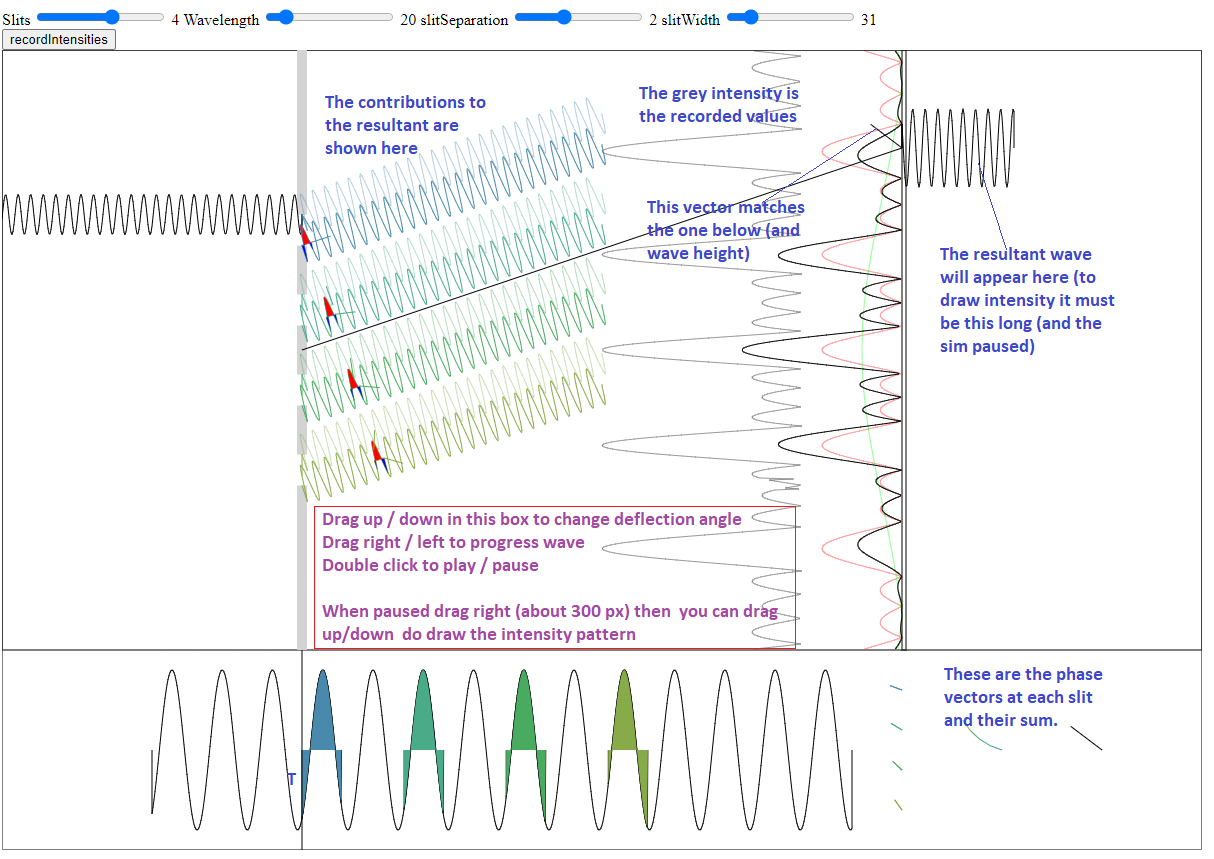
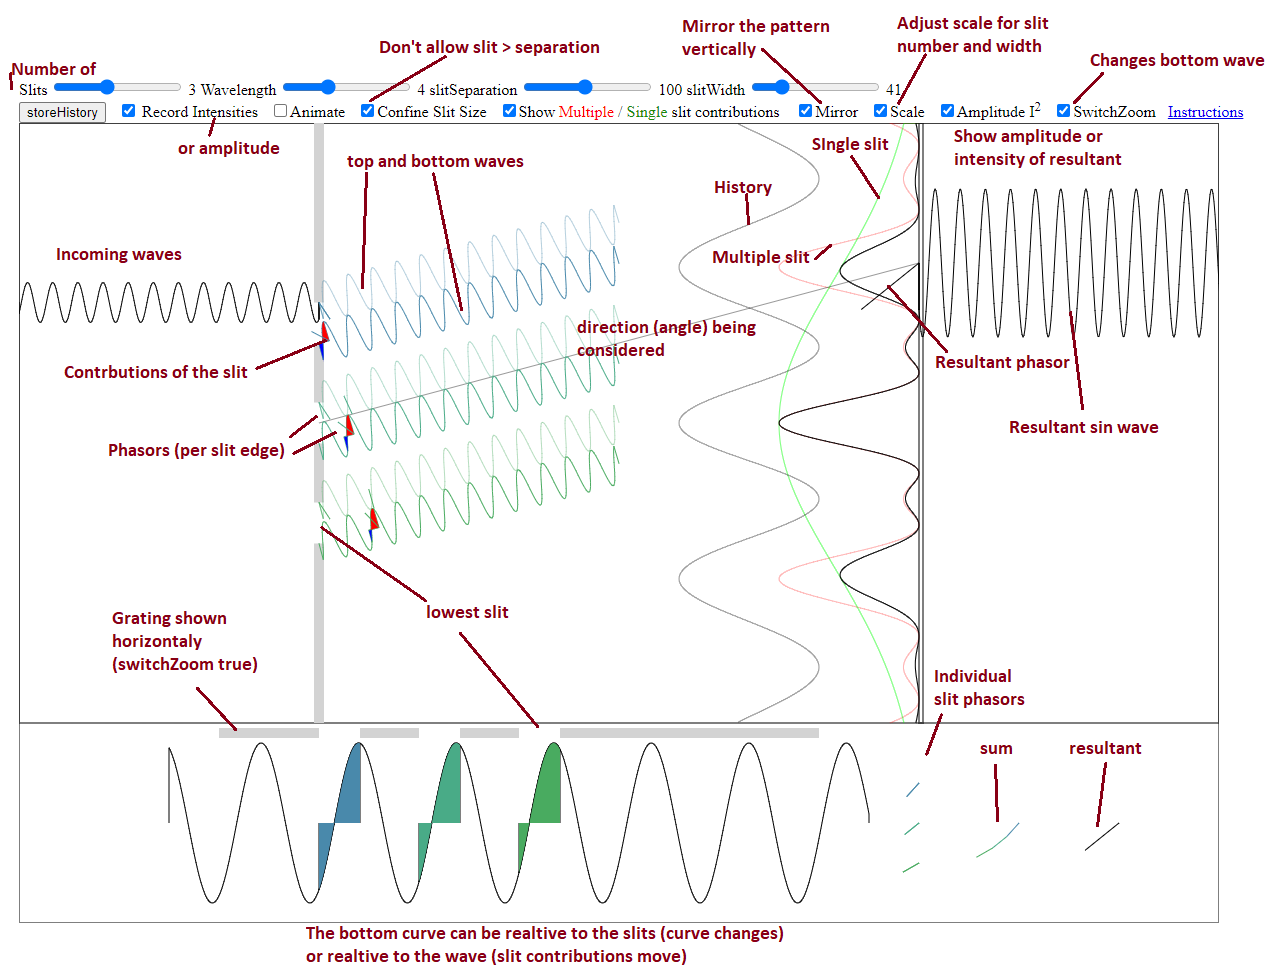
First Feature complete Diffraction sim

diff --git a/src/View/drawView.js b/src/View/drawView.js
@@ -11,7 +11,7 @@ const colours = (i, opacity = 1) => {
 
 // Draw foreground, the rays and sin waves and phasors
 
-function drawForground (c, slit, ray, wave, pos, viewScale, amp) {
+function drawForground (c, slit, ray, wave, pos, viewScale, { amp, scale, switchZoom }) {
   const geo = ray.geo
   const edges = ray.grating.edges.map(a => a) // .reverse().map(([a, b]) => [a + 2 * ray.grating.firstSlit, b + 2 * ray.grating.firstSlit])
 
@@ -72,13 +72,23 @@ function drawForground (c, slit, ray, wave, pos, viewScale, amp) {
   // bottom wave with areas
   // const fills = sd.centres.map((yy, i, a) => [yy * geo.sin, 3, colours(i)])
 
-  const fills = slit.edges.map((c, i, a) => {
-    const [yyy, yy] = c.map(cc => cc * geo.sin)
-    return [Math.min(-yyy, -yy), Math.max(Math.abs(-yyy + yy), 1), colours(i)]
-  })
-  // newSin(c, wave, 100, pos.topViewXY.y + 300, [0, 600], pos.grating.x, 1, 0, 'black', fills)
-  cosineCurve(c, wave, 300, 700, [-150, 700], 0, 4, 0, 'black', fills)
-  drawLine(c, 300, 600, 0, 200, 'black')
+  if (switchZoom) {
+    let { length, phase, amplitude } = wave
+    length = length / (geo.sin * -4)
+    const wave2 = { length, phase, amplitude }
+    const fills = slit.edges.map((c, i, a) => {
+      const [yyy, yy] = c.map(cc => cc * -1 / 4)
+      return [Math.min(-yyy, -yy), Math.max(Math.abs(-yyy + yy), 1), colours(i)]
+    })
+    cosineCurve(c, wave2, 300, 700, [-150, 700], 0, 4, 0, 'black', fills)
+  } else {
+    const fills = slit.edges.map((c, i, a) => {
+      const [yyy, yy] = c.map(cc => cc * geo.sin)
+      return [Math.min(-yyy, -yy), Math.max(Math.abs(-yyy + yy), 1), colours(i)]
+    })
+    cosineCurve(c, wave, 300, 700, [-150, 700], 0, 4, 0, 'black', fills)
+    drawLine(c, 300, 600, 0, 200, 'black')
+  }
 
   let resultAmpitude = ray.modulatedResultant.mag * wave.amplitude
   let wavePhasor = ray.modulatedResultant.scale(wave.amplitude * viewScale.intensity)
@@ -86,6 +96,12 @@ function drawForground (c, slit, ray, wave, pos, viewScale, amp) {
   if (amp) {
     resultAmpitude = resultAmpitude * ray.modulatedResultant.mag
     wavePhasor = wavePhasor.scale(ray.modulatedResultant.mag)
+  }
+
+  if (!scale) {
+    const scaleFactor = scale ? 1 : slit.number * (slit.realWidth || 20) / 50
+    resultAmpitude = resultAmpitude * scaleFactor
+    wavePhasor = wavePhasor.scale(scaleFactor)
   }
 
   drawLine(c, ...pos.phaseDiagram.addXY(100, 0), ...ray.modulatedResultant.scale(wave.amplitude * slit.number), 'black')
@@ -97,20 +113,27 @@ function drawForground (c, slit, ray, wave, pos, viewScale, amp) {
 }
 
 // The grating is drawn by rectangles, this function takes the edges of the slit, the top and bottom and makes pairs oy y-coords
-function drawGrating (c, { edges: e, firstSlit: f, width: w }, vSize, x, dx) {
-  // Add the top and bottom of the grating
-  [0].concat(e.flat().map((v) => v + f + vSize / 2)).concat([vSize])
-    // flatten to a set of pairs for drawing
+function drawVerticalGrating (c, { edges: e, firstSlit: f, width: w }, length, xpos, thickness) {
+  // Add the top and bottom of the grating  flatten to a set of pairs for drawing
+  [0].concat(e.flat().map((v) => v + f + length / 2)).concat([length])
     .reduce((ac, cv, i, ar) => i % 2 ? ac.concat([[ar[i - 1], ar[i]]]) : ac, [])
     // draw each pair as a rectangle
-    .forEach(([y1, y2], i, a) => { c.fillRect(x - dx, y1, dx * 2, y2 - y1) })
+    .forEach(([y1, y2], i, a) => { c.fillRect(xpos - thickness, y1, thickness * 2, y2 - y1) })
+}
+
+function drawHorizontalGrating (c, { edges: e, firstSlit: f, width: w }, longStart, length, transStart, thickness, horizontal, centered) {
+  // Add the top and bottom of the grating  flatten to a set of pairs for drawing
+  const flattenedEdges = [longStart].concat(e.flat().map((v) => v + longStart + 100)).concat([length + longStart])
+    .reduce((ac, cv, i, ar) => i % 2 ? ac.concat([[ar[i - 1], ar[i]]]) : ac, [])
+    // draw each pair as a rectangle
+  flattenedEdges.forEach(([x1, x2], i, a) => { c.fillRect(x1, transStart - thickness, x2 - x1, thickness * 2) })
 }
 
 /*
 *  Draws the areas for each section, the screen and the grating
 */
 
-function drawBackground (c, intensity, pos, amplitude, slit, { scale, show, amp }, viewScale) {
+function drawBackground (c, intensity, pos, amplitude, slit, { scale, show, amp, switchZoom }, viewScale) {
   // c.clearRect(0, 0, c.canvas.width, c.canvas.height)   - for canvas based optimisation
   c.fillStyle = 'lightgrey'
   c.strokeStyle = 'black'
@@ -120,19 +143,23 @@ function drawBackground (c, intensity, pos, amplitude, slit, { scale, show, amp 
   c.strokeRect(pos.screen.x, 0, pos.screen.dx, pos.topViewXY.y)
 
   // Draws the grating
-  drawGrating(c, slit, pos.topViewXY.y, pos.grating.x, pos.grating.dx)
-
+  drawVerticalGrating(c, slit, pos.topViewXY.y, pos.grating.x, pos.grating.dx)
+  if (switchZoom) {
+    drawHorizontalGrating(c, slit, 200, 600, pos.topViewXY.y + 10, pos.grating.dx, true)
+  }
   // Draw the intensity traces
 
   const traceAmplitude = amplitude * viewScale.intensity
+  console.log(slit.width, typeof slit.width)
+  const scaleFactor = scale ? 1 : slit.number * (slit.realWidth || 20) / 50
 
   if (show) {
-    drawTrace(c, intensity[0], pos.screen.x, 0, 'rgba(255, 0, 0, 0.3)', 0, 1, -traceAmplitude, 0, amp)
-    drawTrace(c, intensity[1], pos.screen.x, 0, 'rgba(0, 255, 0, 0.5)', 0, 1, -traceAmplitude, 0, amp)
+    drawTrace(c, intensity[0], pos.screen.x, 0, 'rgba(255, 0, 0, 0.3)', 0, 1, -traceAmplitude, 0, amp, scaleFactor)
+    drawTrace(c, intensity[1], pos.screen.x, 0, 'rgba(0, 255, 0, 0.5)', 0, 1, -traceAmplitude, 0, amp, scaleFactor)
   }
-  drawTrace(c, intensity[2], pos.screen.x, 0, 'black', 0, 1, -traceAmplitude, 0, amp)
-  drawTrace(c, intensity[3], pos.screen.x, 0, 'rgba(0, 0, 0, 0.2)', 0, 1, -traceAmplitude, 0, amp)
-  drawTrace(c, intensity[4], pos.screen.x - 100, 0, undefined, 0, 1, -traceAmplitude, 0, amp)
+  drawTrace(c, intensity[2], pos.screen.x, 0, 'black', 0, 1, -traceAmplitude, 0, amp, scaleFactor)
+  drawTrace(c, intensity[3], pos.screen.x, 0, 'rgba(0, 0, 0, 0.2)', 0, 1, -traceAmplitude, 0, amp, scaleFactor)
+  drawTrace(c, intensity[4], pos.screen.x - 100, 0, undefined, 0, 1, -traceAmplitude, 0, amp, scaleFactor)
 }
 
 export { drawForground, drawBackground }

diff --git a/src/DiffractionSimulation.js b/src/DiffractionSimulation.js
@@ -6,8 +6,6 @@ import { drawForground, drawBackground } from './View/drawView.js'
 
 const canvas = document.querySelector('#screen')
 const cx = canvas.getContext('2d')
-const fx = document.querySelector('#forground').getContext('2d')
-const bx = document.querySelector('#background').getContext('2d')
 
 const sliders = {
   wave: { s: document.getElementById('wavelengthSlide'), t: document.getElementById('wavelengthText') },
@@ -19,20 +17,30 @@ const checkboxes = {
   animate: document.getElementById('anim'),
   record: document.getElementById('rec'),
   show: document.getElementById('show'),
-  // instant: document.getElementById('ins'),
   confine: document.getElementById('conf'),
   mirror: document.getElementById('mirror'),
-  amp: document.getElementById('amp')
+  amp: document.getElementById('amp'),
+  scale: document.getElementById('scale'),
+  switchZoom: document.getElementById('switchZoom')
 }
 const buttons = {
   record: document.getElementById('hist')
 }
 
 const viewScale = { intensity: 7 }
-const settings = { animate: { run: false, notPaused: true }, record: false, confineSlitSize: true, show: false, mirror: true, amp: false }
+const settings = {
+  animate: { run: true, notPaused: true },
+  record: false,
+  confineSlitSize: true,
+  show: false,
+  mirror: true,
+  amp: false,
+  scale: true,
+  switchZoom: false
+}
 const pos = { topViewXY: new Vec(1200, 600), grating: { x: 300, dx: 5 }, screen: { x: 900, dx: 4 }, phaseDiagram: new Vec(1000, 700) }
 
-let slit = new Grating(2, 1, 100)
+let slit = new Grating(2, 0, 100)
 const wave = { length: 4, phase: 0, amplitude: 20 }
 let displacement = 1
 let ray = new Ray(slit, displacement, pos.screen.x - pos.grating.x, wave)
@@ -107,32 +115,34 @@ function addEventListeners () {
   })
 
   checkboxes.animate.addEventListener('change', (e) => {
-    // console.log(checkboxes.animate)
     settings.animate.run = checkboxes.animate.checked
   })
   checkboxes.record.addEventListener('change', (e) => {
-    // console.log(checkboxes.animate)
     settings.record = checkboxes.record.checked
     if (!settings.record) intensity.clear(true)
     update()
   })
   checkboxes.confine.addEventListener('change', (e) => {
-    // console.log(checkboxes.animate)
     settings.confineSlitSize = checkboxes.confine.checked
   })
   checkboxes.show.addEventListener('change', (e) => {
-    // console.log(checkboxes.animate)
     settings.show = checkboxes.show.checked
     update()
   })
   checkboxes.mirror.addEventListener('change', (e) => {
-    // console.log(checkboxes.animate)
     settings.mirror = checkboxes.mirror.checked
     update()
   })
   checkboxes.amp.addEventListener('change', (e) => {
-    // console.log(checkboxes.animate)
     settings.amp = checkboxes.amp.checked
+    update()
+  })
+  checkboxes.scale.addEventListener('change', (e) => {
+    settings.scale = checkboxes.scale.checked
+    update()
+  })
+  checkboxes.switchZoom.addEventListener('change', (e) => {
+    settings.switchZoom = checkboxes.switchZoom.checked
     update()
   })
   canvas.addEventListener('mousedown', e => { mouseCoords = new Vec(e.offsetX, e.offsetY); settings.animate.notPaused = false })
@@ -163,10 +173,7 @@ function update (fromSlider) {
   if (fromSlider && settings.record) { intensity.clear(true); intensity.addAllIntensities(ray, settings.mirror) }
   cx.clearRect(0, 0, cx.canvas.width, cx.canvas.height)
   drawBackground(cx, intensity.values, pos, wave.amplitude, slit, settings, viewScale)
-  drawForground(cx, slit, ray, wave, pos, viewScale, settings.amp)
-  // cx.clearRect(0, 0, cx.canvas.width, cx.canvas.height)
-  // cx.drawImage(bx.canvas, 0, 0)
-  // cx.drawImage(fx.canvas, 0, 0)
+  drawForground(cx, slit, ray, wave, pos, viewScale, settings)
 }
 
 function animateIt (time, lastTime) {

diff --git a/Diffraction Simulation.html b/Diffraction Simulation.html
@@ -10,20 +10,22 @@
           <span id="wavelengthText">4</span>
         slitSeparation <input type="range" min="10" max="200" value="100" class="slider" id="slitSeparationSlide">
           <span id="slitSeparationText">100</span>
-        slitWidth <input type="range" min="1" max="200" value="1" class="slider" id="slitWidthSlide">
-          <span id="slitWidthText">1</span>
+        slitWidth <input type="range" min="0" max="200" value="0" class="slider" id="slitWidthSlide">
+          <span id="slitWidthText">0</span>
       </div>
       <div class ="buttons">
         <button id="hist">storeHistory</button>&nbsp;&nbsp;
         <input type="checkbox" id="rec"> <label for="rec">Record Intensities</label>&nbsp;&nbsp;
-        <input type="checkbox" id="anim"><label for="anim">Animate</label>&nbsp;&nbsp;
+        <input type="checkbox" id="anim" checked=true><label for="anim">Animate</label>&nbsp;&nbsp;
         <input type="checkbox" id="conf" checked=true><label for="conf">Confine Slit Size</label>&nbsp;&nbsp;
-        <input type="checkbox" id="show" checked=true><label for="show">Show 
+        <input type="checkbox" id="show"><label for="show">Show 
           <span style="color: #ff0000">Multiple</span> /
           <span style="color: #1a8b0b">Single</span> slit contributions
         </label>&nbsp;&nbsp;
         <input type="checkbox" id="mirror" checked=true><label for="mirror">Mirror</label>&nbsp;&nbsp;
+        <input type="checkbox" id="scale" checked=true><label for="scale">Scale</label>&nbsp;&nbsp;
         <input type="checkbox" id="amp"><label for="amp">Amplitude I<sup>2</sup></label>&nbsp;&nbsp;
+        <input type="checkbox" id="switchZoom"><label for="switchZoom">SwitchZoom</label>&nbsp;&nbsp;
         <a href ="DiffractionSimAnnotated.png">Instructions</a>
       </div>
 

diff --git a/src/Model/OpticsClasses.js b/src/Model/OpticsClasses.js
@@ -2,15 +2,18 @@
 import { Vec } from '../Vec.js'
 
 class Grating {
-  constructor (number = 2, width = 1, separation = 2) {
-    this.number = number; this.width = width; this.separation = separation
+  constructor (number = 2, w = 1, separation = 2) {
+    const width = w || 1
+    this.number = number; this.realWidth = w; this.separation = separation
     this.firstSlit = -((number - 1) / 2) * (separation) - width / 2
     this.centres = Array(Number.parseInt(number)).fill().map((_, i) => i * (separation) + width / 2)
     this.edges = this.centres.map((v) => [v - width / 2, v + width / 2])
     this.largestEdge = number * (separation) + width
   }
 
-  update (n = this.number, w = this.width, s = this.separation) {
+  get width () { return this.realWidth || 1 }
+
+  update (n = this.number, w = this.realWidth, s = this.separation) {
     return new Grating(n, w, s)
   }
 }
@@ -64,7 +67,6 @@ class IntensityPattern {
     const thisRay = ray.getRay(i - this.vSize / 2)
     const m = thisRay.normalisedResultant.mag
     const s = thisRay.singleSlitModulation
-    // const scale = this.calcScale()
     this.values[0][i] = m
     this.values[1][i] = s
     this.values[2][i] = m * s

diff --git a/src/Vec.js b/src/Vec.js
@@ -14,7 +14,6 @@ class Vec {
   scale (m) { return new Vec(this.x * m, this.y * m) }
   rotate (theta, around) { return Vec.rotate(this, theta, around) }
   rotate90 (scale, around) { return Vec.rotate90(this, scale, around) }
-  // toCircularCoords (a) { return Vec.toCircularCoords(this) }
   integrateTo (b) { return Vec.integrateBetween(this, b) }
   integrateFrom (a) { return Vec.integrateBetween(a, this) }
 
@@ -58,16 +57,8 @@ class Vec {
   static fromCircularCoords (r, theta) {
     return new Vec(r * Math.sin(theta), r * Math.cos(theta))
   }
-
-  // static toCircularCoords (a) {
-  //   return { r: Math.sqrt(a.x * a.x + a.y * a.y), theta: Math.atan2(a.y, a.x) }
-  // }
-
-  // static zero = new Vec(0, 0)
-  // static unitY = new Vec(0, 1)
-  // static unitX = new Vec(1, 0)
 }
-// Standard javascipt doesnt yet support staic variables
+// Standard javascipt lint doesnt yet support staic variables
 Vec.zero = new Vec(0, 0)
 Vec.unitY = new Vec(0, 1)
 Vec.unitX = new Vec(1, 0)

diff --git a/src/View/drawFunctions.js b/src/View/drawFunctions.js
@@ -42,12 +42,13 @@ function drawLine (c, x1, y1, dx, dy, color) {
   c.beginPath()
 }
 
-function drawTrace (cx, array, startX = 0, startY = 0, colour = 'rgba(0, 0, 0, 0.4)', dx = 0, dy = 1, vx = 1, vy = 0, amp) {
+function drawTrace (cx, array, startX = 0, startY = 0, colour = 'rgba(0, 0, 0, 0.4)', dx = 0, dy = 1, vx = 1, vy = 0, amp, scaleFactor) {
   cx.beginPath()
   cx.moveTo(startX, startY)
   cx.strokeStyle = colour
   array.forEach((v, i, a) => {
-    const vv = amp ? v * v : v
+    let vv = amp ? v * v : v
+    vv = vv * scaleFactor
     if (v * a[i - 1] === 0) {
       cx.moveTo(startX + dx * i + vx * vv, startY + dy * i + vy * vv)
     } else {
